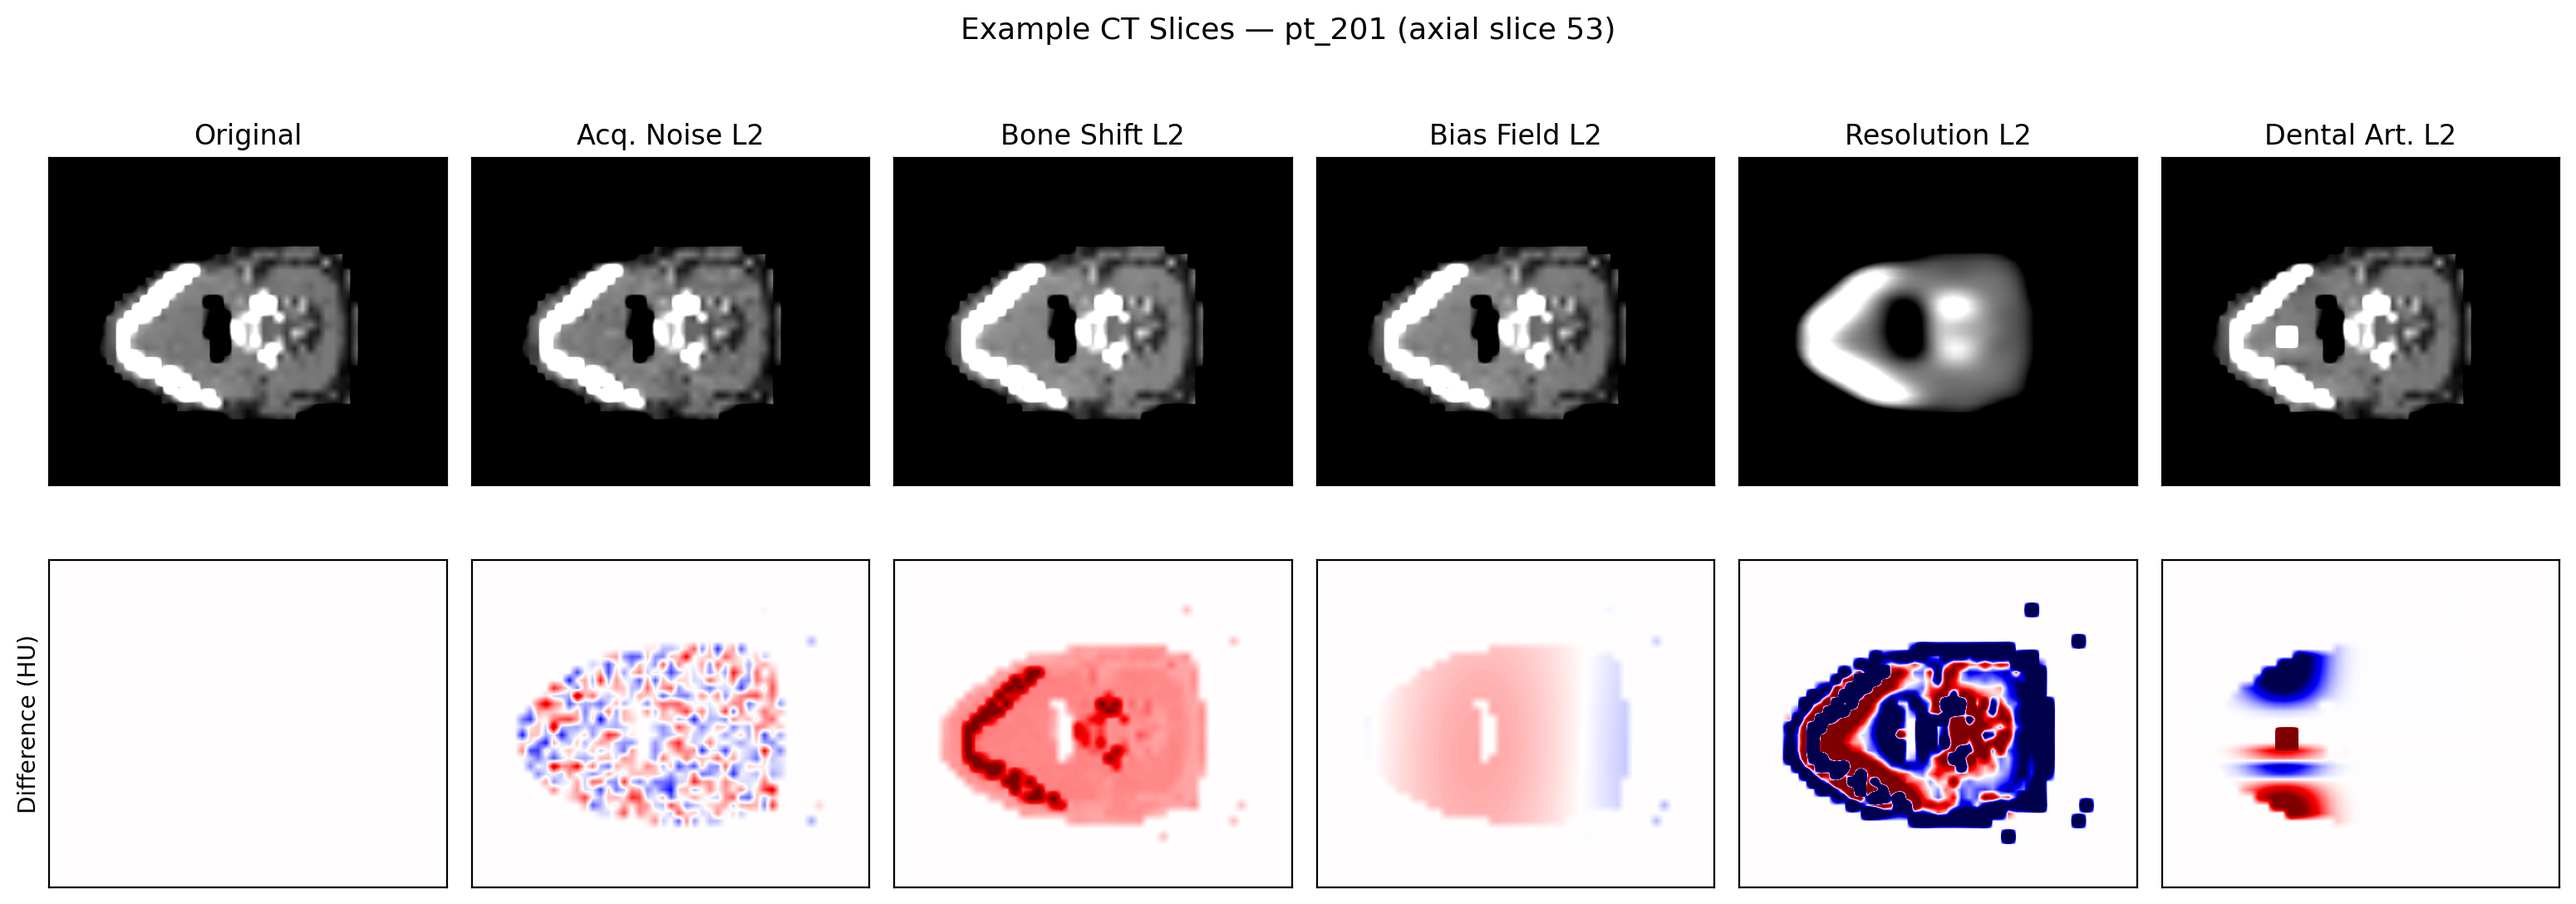
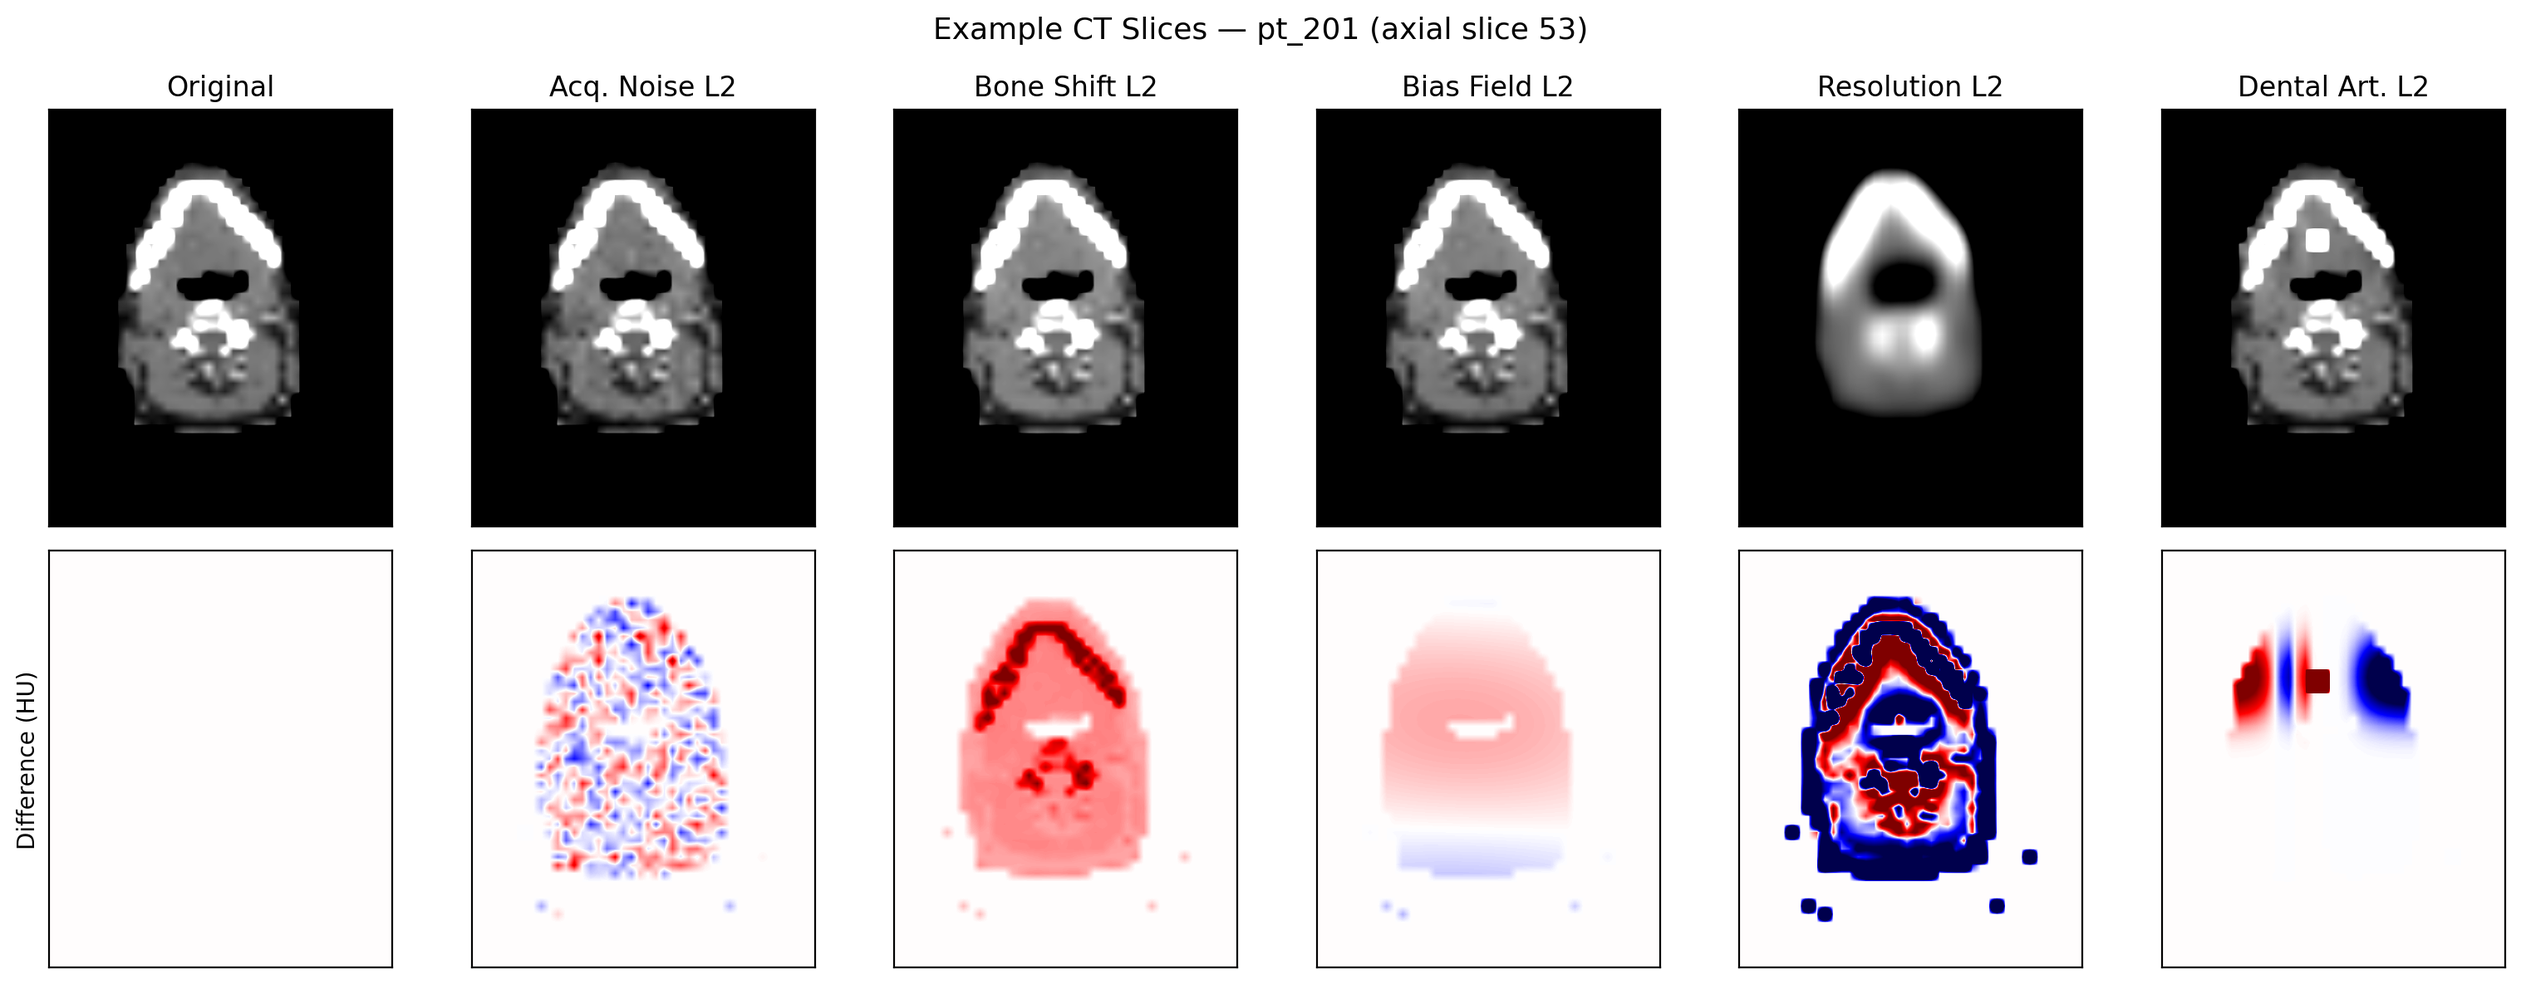
Axial figures: conventional radiological orientation (fix the "coronal" look)
Axes proven empirically from anatomy (not the code comment): SpinalCord spans
axis 2 (extent 83) and Brainstem (superior) sits above it on axis 2 -> axis 2 = S-I;
parotids separate on axis 1 -> L-R; axis 0 = A-P. So vol[:,:,w] IS axial. The
earlier "coronal" look came from copying the adversarial code's imshow(img.T,
origin="lower"), which rotates the axial plane 90 degrees. Now display conventional
axial: no transpose, origin upper -> anterior at top (mandible low axis0, cord high
axis0), patient-left on the right (parotid geometry). Slice = max-PTV-area (53).
Also emitted ~/Downloads/pt201_three_planes_labeled.png (axial/coronal/sagittal)
for visual confirmation.

diff --git a/reports/report2_ct_perturbation/astro_poster/regen_axial_figures.py b/reports/report2_ct_perturbation/astro_poster/regen_axial_figures.py
@@ -4,8 +4,8 @@ figure's exact orientation/recipe (save_adversarial_ct_figures.py), no GPU.
 
 Reads OpenKBP CTs, perturbed CTs, PTV masks, and the already-computed prediction CSVs from the
 SanDisk warehouse (CPU only). Axes (D,H,W)=(A-P,L-R,S-I); axial slice = (D,H) at the max-PTV-area
-S-I index; crop to the body bbox; display imshow(img.T, origin='lower') so anatomy fills the frame
-exactly like the adversarial poster figure.
+S-I index; crop to the body bbox; display in conventional radiological AXIAL orientation
+(anterior up, patient-left on the right).
 """
 import os
 import numpy as np
@@ -69,7 +69,10 @@ def main():
     h0, h1 = max(xs.min() - mg, 0), min(xs.max() + mg + 1, body.shape[1])
     crop = lambda a: a[d0:d1, h0:h1]
     hu = lambda a: crop(ax(a)) - HU_OFFSET              # display in true HU
-    show = lambda axi, img, **kw: axi.imshow(img.T, origin="lower", interpolation="bilinear", **kw)
+    # Conventional radiological AXIAL orientation: rows = A-P (anterior at top, since mandible sits
+    # at low axis0 and cord at high axis0), cols = L-R (patient-left at right, parotid geometry).
+    # No transpose (the adversarial code's img.T rotated the axial plane 90°, which read as coronal).
+    show = lambda axi, img, **kw: axi.imshow(img, origin="upper", interpolation="bilinear", **kw)
     body_c = crop(body).astype(float)
 
     # ---- CT slices ----
@@ -79,7 +82,7 @@ def main():
     A[0, 0].set_title("Original"); A[1, 0].set_ylabel("Difference (HU)")
     for r in (0, 1):
         A[r, 0].set_xticks([]); A[r, 0].set_yticks([])
-    A[1, 0].imshow(np.zeros_like(hu(base_ct)).T, origin="lower", cmap="seismic", vmin=-80, vmax=80)
+    A[1, 0].imshow(np.zeros_like(hu(base_ct)), origin="upper", cmap="seismic", vmin=-80, vmax=80)
     for i, (fam, lab) in enumerate(FAMILIES):
         c = i + 1
         pv = load_vol(f"{PERT}/{fam}/{LEVEL}/{PID}/ct.csv")
@@ -101,7 +104,7 @@ def main():
     A[0, 0].set_title("Baseline"); A[1, 0].set_ylabel("Dose diff (Gy)")
     for r in (0, 1):
         A[r, 0].set_xticks([]); A[r, 0].set_yticks([])
-    A[1, 0].imshow(np.zeros_like(doseax(base_dose)).T, origin="lower", cmap="RdBu_r", vmin=-5, vmax=5)
+    A[1, 0].imshow(np.zeros_like(doseax(base_dose)), origin="upper", cmap="RdBu_r", vmin=-5, vmax=5)
     for i, (fam, lab) in enumerate(FAMILIES):
         c = i + 1
         pdose = load_vol(f"{PRED}/{fam}/{LEVEL}/{PID}.csv")
